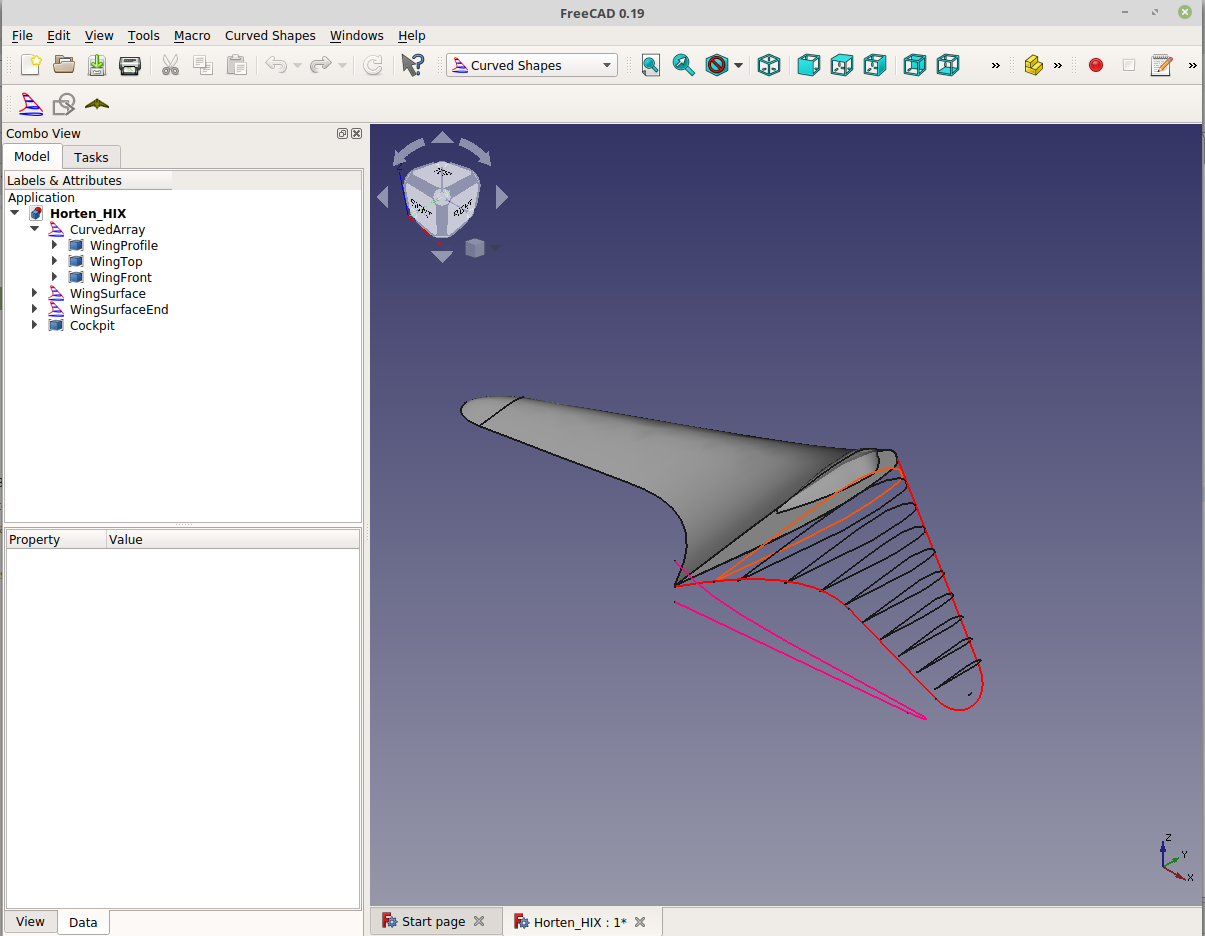
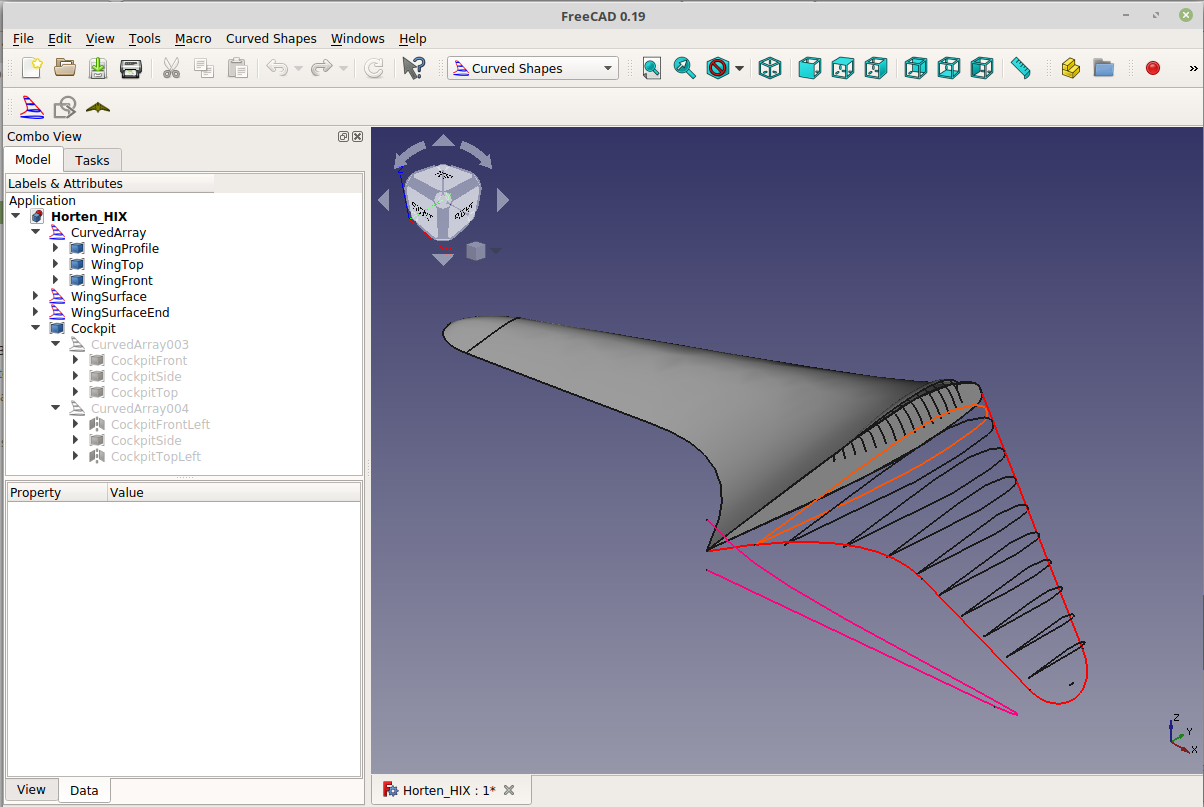
Horten H IX cockpit with ribs and surface

diff --git a/Horten_HIX.py b/Horten_HIX.py
@@ -257,21 +257,36 @@ def drawCockpit(doc, scaleFactor, rib_material_height):
     CockpitRight = CurvedShapes.makeCurvedArray(Base=CockpitFront, 
                                              Hullcurves=[CockpitSide, CockpitTop], 
                                              Axis=Vector(0,1,0), 
-                                             Items=8, 
+                                             Items=16, 
+                                             OffsetStart=0, 
+                                             OffsetEnd=0,
+                                             Surface=False,
+                                             extract=False) 
+
+    CockpitTopLeft = doc.addObject('Part::Mirroring', 'CockpitTopLeft')
+    CockpitTopLeft.Normal = Vector(1.0, 0.0, 0.0)
+    CockpitTopLeft.Source = CockpitTop
+    CockpitTopLeft.ViewObject.hide()
+    
+    CockpitFrontLeft = doc.addObject('Part::Mirroring', 'CockpitFrontLeft')
+    CockpitFrontLeft.Normal = Vector(1.0, 0.0, 0.0)
+    CockpitFrontLeft.Source = CockpitFront
+    CockpitFrontLeft.ViewObject.hide()
+    doc.recompute()
+    
+    CockpitLeft = CurvedShapes.makeCurvedArray(Base=CockpitFrontLeft, 
+                                             Hullcurves=[CockpitSide, CockpitTopLeft], 
+                                             Axis=Vector(0,1,0), 
+                                             Items=16, 
                                              OffsetStart=0, 
                                              OffsetEnd=0,
                                              Surface=True,
                                              extract=False) 
-
-    CockpitRight.ViewObject.Transparency = 50
-    
-    CockpitLeft = doc.addObject('Part::Mirroring', 'CockpitLeft')
-    CockpitLeft.Normal = Vector(1.0, 0.0, 0.0)
-    CockpitLeft.Source = CockpitRight
     CockpitLeft.ViewObject.Transparency = 50
     
     Cockpit = doc.addObject('Part::Compound', 'Cockpit')
-    Cockpit.Links = [CockpitLeft]
+    Cockpit.Links = [CockpitRight, CockpitLeft]
+    Cockpit.ViewObject.Transparency = 50
     
     return Cockpit
     

diff --git a/README.md b/README.md
@@ -28,6 +28,10 @@ The hullcurves should lie on or parralel to the XY- XZ- or YZ- plane.
 - Twist: Applies a rotation around Axis to the array items. 
 - Surface: make a surface (Creates a Loft over the array items)
 - Solid: make a solid if Base is a closed shape
+
+##### Resolve a CurvedArray item to a compound of single objects
+Go to the Part workbench. In the Part menu, select Compound -> Explode compound  
+  
   
 ### ![](./Resources/icons/SketcherToConsole.svg) Sketch To Python
 Exports the geometry from a FreeCAD sketch to a python script.  
